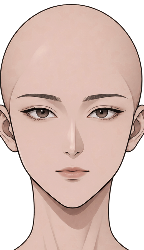
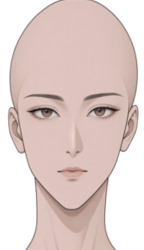
v0.65: [외형] 헤어 등록 오류와 광택·얼굴 질감 보정

diff --git a/js/portrait_parts.js b/js/portrait_parts.js
@@ -415,9 +415,9 @@ const PortraitParts = (() => {
         250
       ],
       "skinRgb": [
-        225.0,
-        191.0,
-        176.0
+        219.0,
+        190.0,
+        179.0
       ],
       "chinY": 251,
       "eyeCenters": [
@@ -935,9 +935,9 @@ const PortraitParts = (() => {
         250
       ],
       "skinRgb": [
-        226.0,
-        192.0,
-        182.0
+        222.0,
+        195.0,
+        189.0
       ],
       "chinY": 261,
       "eyeCenters": [
@@ -1443,10 +1443,10 @@ const PortraitParts = (() => {
     {
       "file": "hair-f-5.webp",
       "rect": [
-        80,
-        24,
-        240,
-        246
+        0,
+        0,
+        400,
+        600
       ]
     },
     {
@@ -2637,7 +2637,7 @@ const PortraitParts = (() => {
     const fitHead = markup => headScale === 1 ? markup : `<g data-proportion="head" transform="${headTransform}">${markup}</g>`;
     const cardHeight = underwear ? 440 : 480;
     const view = avatar ? `72 ${pose} 256 256` : `0 0 400 ${cardHeight}`;
-    const source = part => root + part.file + '?v=8';
+    const source = part => root + part.file + '?v=9';
     const image = (part, attrs = '') => {
       const [x,y,w,h] = part.rect, src = source(part);
       return `<image href="${src}" xlink:href="${src}" x="${x}" y="${y}" width="${w}" height="${h}"${attrs}/>`;
@@ -2645,7 +2645,7 @@ const PortraitParts = (() => {
     const palette = { fair:[246,218,200], medium:[220,180,150], tan:[182,133,95], deep:[133,88,65] };
     const target = palette[selection.skinTone] || face.skinRgb || [230,195,180];
     // 피부 마스크 안의 색만 바꿔 흰자·입술·검은 선·속옷 색은 보존한다.
-    const skinImage = (part, name, attrs = '', feature = false) => `<g${attrs}>${image(part, ` data-skin-source="${source(part)}" data-skin-mask="${root+part.skinMask}?v=8" data-skin-rgb="${part.skinRgb.join(',')}" data-skin-target="${target.join(',')}" data-skin-race="${selection.race}"${feature ? ` data-face-feature="${female ? 'f' : 'm'}" data-feature-offset="${featureOffset}"` : ''}${name === 'base' ? ` data-body-scale="${headScale}" data-body-pivot="${chin+24}"` : ''}`)}</g>`;
+    const skinImage = (part, name, attrs = '', feature = false) => `<g${attrs}>${image(part, ` data-skin-source="${source(part)}" data-skin-mask="${root+part.skinMask}?v=9" data-skin-rgb="${part.skinRgb.join(',')}" data-skin-target="${target.join(',')}" data-skin-race="${selection.race}"${feature ? ` data-face-feature="${female ? 'f' : 'm'}" data-feature-offset="${featureOffset}"` : ''}${name === 'base' ? ` data-body-scale="${headScale}" data-body-pivot="${chin+24}"` : ''}`)}</g>`;
     const fit = integrated ? { thin:.9, normal:1, strong:1.04, heavy:1.24 }[selection.bodyType] : 1; // 통통 1.12 는 깃이 목보다 작아 옷을 키움 (사용자 지적)
     // 여자 옷 원화는 몸통 중심(x≈199)보다 1.5~8px 오른쪽에 그려져 있어 목이 왼쪽으로 치우쳐 보였다 (사용자 지적). 깃 중심을 몸에 맞춘다.
     const shiftX = female && !underwear ? [-2, -2.5, -4.5, -4, -3, -8][style] || 0 : 0;

diff --git a/tools/smoke_test.js b/tools/smoke_test.js
@@ -109,6 +109,20 @@ const { chromium, devices } = require('playwright');
           if ([...bottom].some((v, i) => i % 4 === 3 && v > 50)) throw new Error('긴 머리 하단이 늘어남');
         }
       }
+      // 원본만 검사하면 전체 캔버스를 작은 rect로 줄여 정수리만 남는 오류를 놓친다.
+      // 실제 선택된 등록 좌표에서도 양쪽 관자 부위에 머리가 이어지는지 확인한다.
+      {
+        let hair;
+        for (let n = 0; n < 2000 && !hair; n++) {
+          const candidate = PortraitParts.select('look3:묶음등록-' + n, 'F', { age: 25, outfit: 'underwear' }).layers[2];
+          if (candidate.file === 'hair-f-5.webp') hair = candidate;
+        }
+        if (!hair) throw new Error('묶음머리 등록 검증 시드 없음');
+        const im = new Image(); im.src = 'assets/portraits/parts/' + hair.file; await im.decode();
+        const cv = document.createElement('canvas'); cv.width = 400; cv.height = 600;
+        const ctx = cv.getContext('2d'); ctx.drawImage(im, ...hair.rect);
+        for (const x of [150, 250]) if (ctx.getImageData(x, 110, 1, 1).data[3] < 100) throw new Error('묶음머리 등록 축소로 관자 머리가 사라짐');
+      }
       const neckSrc = await PortraitParts.rasterize(PORTRAIT.card('목선확인', 'M', null, 0, 400, { outfit: 'mandarin' }));
       const neckImg = new Image(); neckImg.src = neckSrc; await neckImg.decode();
       const neckCanvas = document.createElement('canvas'); neckCanvas.width = 400; neckCanvas.height = 480;

diff --git a/index.html b/index.html
@@ -8,7 +8,7 @@
   <meta name="theme-color" content="#05080d">
   <link rel="preconnect" href="https://fonts.googleapis.com">
   <link rel="stylesheet" href="https://fonts.googleapis.com/css2?family=Black+Han+Sans&family=Chakra+Petch:wght@500;600;700&family=IBM+Plex+Sans+KR:wght@400;500;700&display=swap">
-  <link rel="stylesheet" href="dist/style.css?v=s2.0.64">
+  <link rel="stylesheet" href="dist/style.css?v=s2.0.65">
 </head>
 <body>
   <div id="app"></div>
@@ -26,6 +26,6 @@
       document.body.appendChild(d);
     });
   </script>
-  <script src="dist/game.js?v=s2.0.64"></script>
+  <script src="dist/game.js?v=s2.0.65"></script>
 </body>
 </html>

diff --git a/js/data.js b/js/data.js
@@ -1,5 +1,5 @@
 // 게임 버전 (화면 오른쪽 아래에 표시)
-const GAME_VERSION = '0.64';
+const GAME_VERSION = '0.65';
 
 // ===== 게이트 크로니클: 데이터 정의 =====
 // 귀곡팔황의 "경지"를 각성 등급으로, "오행"을 에테르 속성으로 옮겼다.
